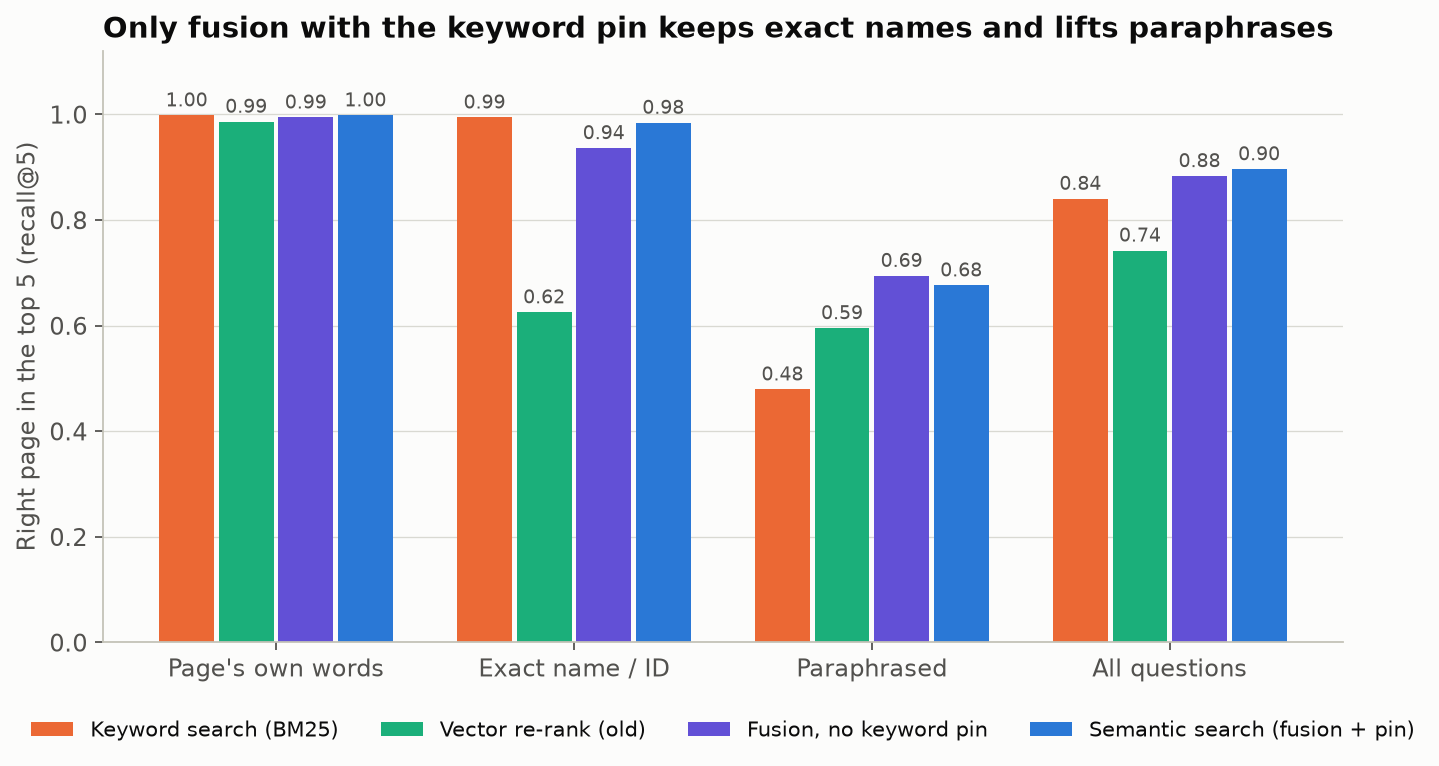
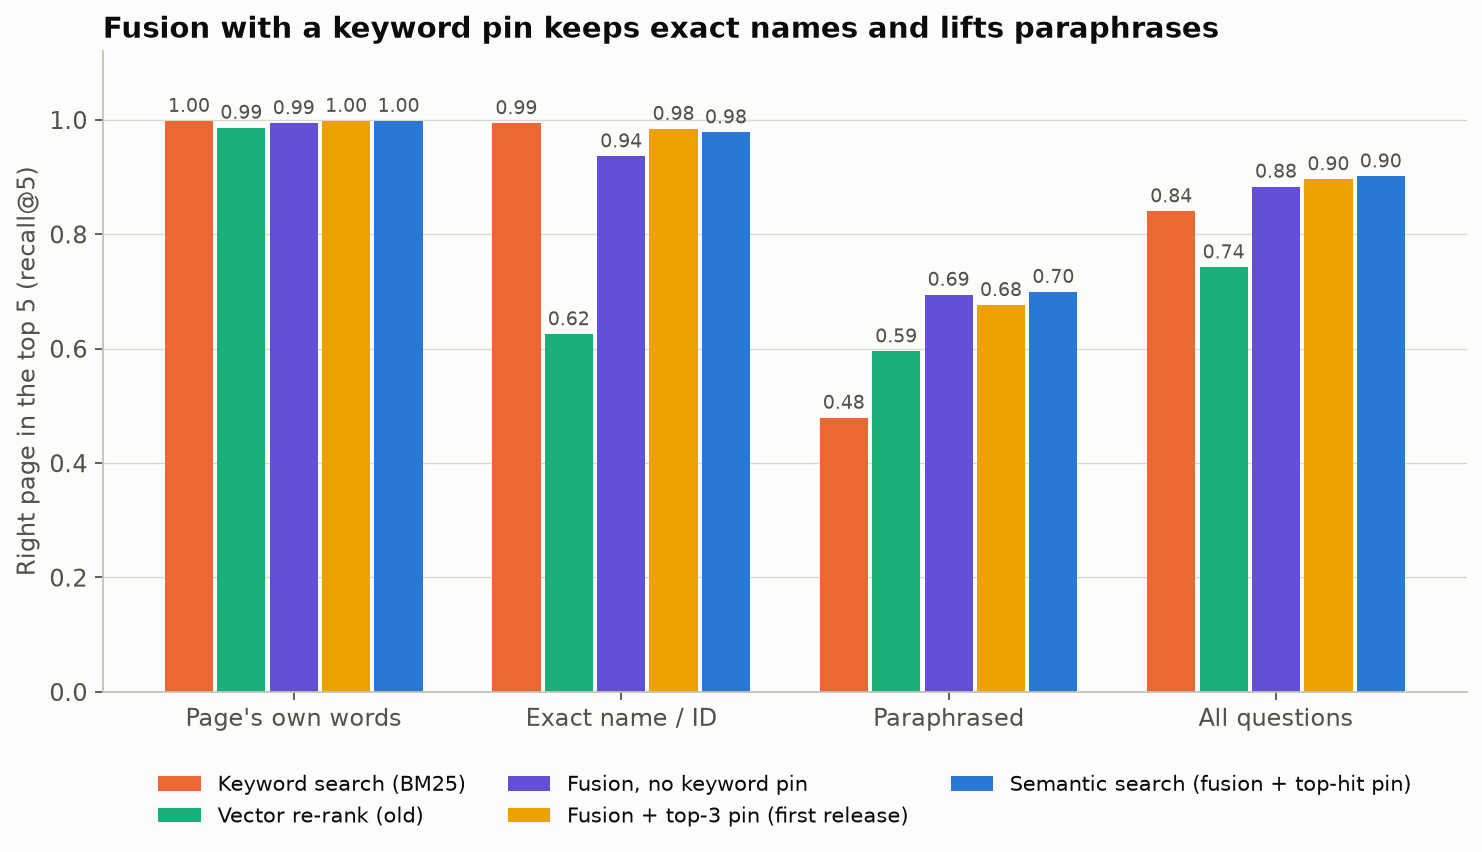
docs(benchmarks): results with only BM25's top hit pinned
Re-ran all five corpora (accuracy only; latency figures kept from the
previous baseline: the change only re-orders fused results, and this run
was measured with the machine under load). The design-choices chart shows
the first release's top-3 pin next to the shipped top-hit pin; README,
user guide, design doc and benchmark READMEs quote 70% for paraphrases.

diff --git a/benchmarks/retrieval/charts.py b/benchmarks/retrieval/charts.py
@@ -23,6 +23,7 @@ SEMANTIC = "#2a78d6"     # fusion + keyword pin: what ships
 KEYWORD = "#eb6834"      # BM25
 RERANK = "#1baf7a"       # the former vector = true (BM25 top 20 re-sorted)
 FUSION = "#6250d6"       # fusion without the keyword pin
+PIN3 = "#eda100"         # fusion + pin of BM25's top 3 (the first release)
 SURFACE, TEXT, TEXT_2, GRID = "#fcfcfb", "#0b0b0b", "#52514e", "#c3c2b7"
 
 # Measured while designing semantic search (benchmarks/retrieval/README.md,
@@ -31,7 +32,8 @@ DESIGN_SETUPS = [
     ("Keyword search (BM25)", KEYWORD, {"lexical": 0.998, "identifier": 0.994, "paraphrase": 0.479, "all": 0.840}),
     ("Vector re-rank (old)", RERANK, {"lexical": 0.986, "identifier": 0.625, "paraphrase": 0.595, "all": 0.742}),
     ("Fusion, no keyword pin", FUSION, {"lexical": 0.994, "identifier": 0.936, "paraphrase": 0.694, "all": 0.883}),
-    ("Semantic search (fusion + pin)", SEMANTIC, {"lexical": 0.998, "identifier": 0.984, "paraphrase": 0.676, "all": 0.896}),
+    ("Fusion + top-3 pin (first release)", PIN3, {"lexical": 0.998, "identifier": 0.984, "paraphrase": 0.676, "all": 0.896}),
+    ("Semantic search (fusion + top-hit pin)", SEMANTIC, {"lexical": 0.998, "identifier": 0.978, "paraphrase": 0.699, "all": 0.901}),
 ]
 # P95 before the query embedding overlapped BM25 (the previous committed baseline).
 LATENCY_BEFORE = {"200": 65.9, "500": 63.9, "1000": 70.1, "1985": 165.7}
@@ -85,12 +87,12 @@ def chart_design(out_dir: Path) -> Path:
     plt = _plt()
     types = ["lexical", "identifier", "paraphrase", "all"]
     labels = ["Page's own words", "Exact name / ID", "Paraphrased", "All questions"]
-    fig, ax = plt.subplots(figsize=(10, 4.8))
+    fig, ax = plt.subplots(figsize=(11, 5.2))
     _grouped_bars(ax, labels, [(n, c, [v[t] for t in types]) for n, c, v in DESIGN_SETUPS], "{:.2f}")
     ax.set_ylim(0, 1.12)
     ax.set_ylabel("Right page in the top 5 (recall@5)")
-    ax.set_title("Only fusion with the keyword pin keeps exact names and lifts paraphrases",)
-    ax.legend(loc="upper center", bbox_to_anchor=(0.5, -0.1), ncol=4, fontsize=9.5)
+    ax.set_title("Fusion with a keyword pin keeps exact names and lifts paraphrases")
+    ax.legend(loc="upper center", bbox_to_anchor=(0.5, -0.1), ncol=3, fontsize=9.5)
     return _save(fig, "design-choices.png", out_dir)
 
 

diff --git a/docs/design.md b/docs/design.md
@@ -383,13 +383,13 @@ model hurt, which the CJK handling below removes); see
 1. BM25 takes its top `vector_top_candidates` pages (default 20).
 2. The query is embedded and compared with every page embedding in memory; the top `vector_top_candidates` pages by similarity are taken, over the same scope (routing scope, query lifecycle states).
 3. The two rankings are merged with **reciprocal rank fusion** — each page scores `1 / (60 + rank)` in each list it appears in — so a page either method finds can surface, and a page high in both wins.
-4. **Keyword pin:** when BM25's best score is at least 1.05× its second, BM25's top 3 stay on top. A dominant keyword match is almost always an exact name or term, and re-ordering it by meaning would lose it.
+4. **Keyword pin:** when BM25's best score is at least 1.05× its second, BM25's top hit stays on top. A dominant keyword match is almost always an exact name or term, and re-ordering it by meaning would lose it. Only the top hit is pinned: at 1.05× the pin fires on 53% of paraphrased questions, and BM25's second and third results were the labelled page for at most 6% of the questions it fired on. Pinning the top 3 (the first release) cost paraphrase recall@5 (0.699 → 0.676) for 3 of 499 exact-name lookups, and was no better on any held-out corpus.
 
 Each `SearchResult` keeps `score` as the BM25 score (0 for a page only the embedding search found), so the knowledge-gap signals and the routing-scope fallback keep their BM25 meaning; `rank_score` is the fused ordering key and `similarity` the embedding similarity. Callers merge sub-question searches with `merge_results()`, which orders by `rank_score`. Ingest's page matching stays on BM25.
 
 **Sync:** embeddings live in `embeddings.db` (`page_embeddings` table: one vector per page plus a hash of the text it was embedded from) and in memory as one matrix. A background sync embeds new and changed pages and drops pages that left the query corpus: at server start, after every ingest, and on the next search after any page write (`invalidate_index()`). Until the first sync finishes, search is BM25 only — no downtime. A failed sync (e.g. the model cannot be downloaded) is logged and search stays on BM25.
 
-**Measured:** see [benchmarks/retrieval](../benchmarks/retrieval/README.md). On a 1,985-page Wikipedia-derived wiki, fusion with the keyword pin raises paraphrased-question recall@5 from 0.48 to 0.68 while exact-name and own-words questions stay within 1 point of BM25.
+**Measured:** see [benchmarks/retrieval](../benchmarks/retrieval/README.md). On a 1,985-page Wikipedia-derived wiki, fusion with the keyword pin raises paraphrased-question recall@5 from 0.48 to 0.70 and all questions from 0.84 to 0.90; own-words questions are unchanged and exact-name lookups are 1.6 points under BM25 (0.978 vs 0.994).
 
 **Performance notes:**
 

diff --git a/benchmarks/retrieval/README.md b/benchmarks/retrieval/README.md
@@ -69,10 +69,20 @@ Measured on the full 1,985-page corpus while designing semantic search
 | BM25 | 0.998 | 0.994 | 0.479 | 0.840 |
 | BM25 top 20 re-sorted by embedding similarity (the former `vector = true`) | 0.986 | 0.625 | 0.595 | 0.742 |
 | BM25 + embedding search, reciprocal rank fusion | 0.994 | 0.936 | 0.694 | 0.883 |
-| Fusion + keyword pin (BM25 top 3 kept when its best score ≥ 1.05× its second) | 0.998 | 0.984 | 0.676 | 0.896 |
-| Same, but one embedding per section instead of per page | 0.998 | 0.986 | 0.613 | 0.878 |
+| Fusion + keyword pin of BM25's top 3 when its best score ≥ 1.05× its second (first release) | 0.998 | 0.984 | 0.676 | 0.896 |
+| **Fusion + keyword pin of BM25's top hit only (shipped)** | 0.998 | 0.978 | **0.699** | **0.901** |
+| First release, but one embedding per section instead of per page | 0.998 | 0.986 | 0.613 | 0.878 |
 
 ![Recall@5 by question type for each setup](../../docs/png/benchmarks/design-choices.png)
+
+**Why only the top hit is pinned.** At 1.05× the pin fires on 96% of
+own-words, 98% of exact-name and 53% of paraphrased questions. When it fires,
+BM25's top result is the labelled page 99%, 94% and 45% of the time, but its
+second and third results are the labelled page for at most 6%. Pinning all
+three cost 10 paraphrased questions to save 3 exact-name ones, and on the
+held-out corpora (below) pinning only the top hit is at least as good on every
+measure. Pinning the top hit at 1.05× and the top three only at a larger
+margin (1.1×–3×) never beat it.
 
 Section embeddings rank better on their own (paraphrase recall@5 0.669 vs
 0.616 for the embedding search alone) but fuse worse, because they mostly
@@ -88,7 +98,7 @@ search latency.
 
 The gap between keyword and semantic search grows with the wiki: paraphrased
 questions found in the top 5 fall from 0.71 to 0.48 with BM25 between 200 and
-1,985 pages, and from 0.80 to 0.68 with semantic search.
+1,985 pages, and from 0.84 to 0.70 with semantic search.
 
 ![Paraphrased-question recall@5 by wiki size](../../docs/png/benchmarks/paraphrase-by-wiki-size.png)
 
@@ -100,9 +110,9 @@ NFCorpus, whose queries have ~38 relevant documents each):
 
 | Corpus | `bm25` nDCG@10 | `hybrid` nDCG@10 | `bm25` MRR@10 | `hybrid` MRR@10 |
 | --- | ---: | ---: | ---: | ---: |
-| hotpot | 0.755 | **0.808** | 0.848 | **0.880** |
-| scifact | 0.658 | **0.693** | 0.629 | **0.654** |
-| nfcorpus | 0.305 | **0.344** | 0.505 | **0.547** |
+| hotpot | 0.755 | **0.822** | 0.848 | **0.886** |
+| scifact | 0.658 | **0.697** | 0.629 | **0.659** |
+| nfcorpus | 0.305 | **0.346** | 0.505 | **0.554** |
 | duretrieval (Chinese) | 0.853 | 0.853 | 0.924 | 0.924 |
 
 ![nDCG@10 on every corpus](../../docs/png/benchmarks/independent-corpora.png)

diff --git a/README-pypi.md b/README-pypi.md
@@ -102,7 +102,7 @@ Synthadoc scales from a single researcher to a company-wide knowledge platform:
 | **Small team (3–20)**  | Centralized internal knowledge base for startups and departments that aggregates diverse individual data sources into a unified, high-integrity wiki. The system automatically resolves contradictions and scales autonomously, ensuring organizational intelligence grows in tandem with your team |
 | **Medium / enterprise** | Compliance-sensitive knowledge bases that must stay local; per-department wikis on separate ports; audit trail for every ingest and cost event; hook system for CI/CD integration; OpenTelemetry for ops dashboards                                                                                 |
 
-**Built for large wikis.** Measured on wikis of thousands of pages: keyword search finds the pages for an answer in about 20 ms at 2,000 pages; [semantic search](https://github.com/axoviq-ai/synthadoc/blob/main/docs/design.md#semantic-search), on by default for new wikis when installed, puts the right page in the top 5 for 68% of questions asked in your own words, up from 48%; and the [knowledge graph](https://github.com/axoviq-ai/synthadoc/blob/main/docs/user-quick-start-guide.md#large-wikis-cluster-overview) opens a 5,000-page wiki as a clickable overview of named topic clusters in about 6 seconds.
+**Built for large wikis.** Measured on wikis of thousands of pages: keyword search finds the pages for an answer in about 20 ms at 2,000 pages; [semantic search](https://github.com/axoviq-ai/synthadoc/blob/main/docs/design.md#semantic-search), on by default for new wikis when installed, puts the right page in the top 5 for 70% of questions asked in your own words, up from 48%; and the [knowledge graph](https://github.com/axoviq-ai/synthadoc/blob/main/docs/user-quick-start-guide.md#large-wikis-cluster-overview) opens a 5,000-page wiki as a clickable overview of named topic clusters in about 6 seconds.
 
 ![Knowledge graph of a 5,000-page wiki: one bubble per topic cluster, named after its main pages, with a clickable list of clusters below](https://raw.githubusercontent.com/axoviq-ai/synthadoc/main/docs/png/synthadoc-graph-cluster-overview.png)
 *The web UI's Graph tab on a 5,000-page test wiki: 100,801 links summarised as 24 named clusters. Click a cluster to see its pages. [How it works](https://github.com/axoviq-ai/synthadoc/blob/main/docs/user-quick-start-guide.md#large-wikis-cluster-overview)*

diff --git a/README.md b/README.md
@@ -113,7 +113,7 @@ Synthadoc scales from a single researcher to a company-wide knowledge platform:
 | **Small team (3–20)**  | Centralized internal knowledge base for startups and departments that aggregates diverse individual data sources into a unified, high-integrity wiki. The system automatically resolves contradictions and scales autonomously, ensuring organizational intelligence grows in tandem with your team |
 | **Medium / enterprise** | Compliance-sensitive knowledge bases that must stay local; per-department wikis on separate ports; audit trail for every ingest and cost event; hook system for CI/CD integration; OpenTelemetry for ops dashboards                                                                                 |
 
-**Built for large wikis.** Measured on wikis of thousands of pages: keyword search finds the pages for an answer in about 20 ms at 2,000 pages; [semantic search](docs/design.md#semantic-search), on by default for new wikis when installed, puts the right page in the top 5 for 68% of questions asked in your own words, up from 48%; and the [knowledge graph](docs/user-quick-start-guide.md#large-wikis-cluster-overview) opens a 5,000-page wiki as a clickable overview of named topic clusters in about 6 seconds.
+**Built for large wikis.** Measured on wikis of thousands of pages: keyword search finds the pages for an answer in about 20 ms at 2,000 pages; [semantic search](docs/design.md#semantic-search), on by default for new wikis when installed, puts the right page in the top 5 for 70% of questions asked in your own words, up from 48%; and the [knowledge graph](docs/user-quick-start-guide.md#large-wikis-cluster-overview) opens a 5,000-page wiki as a clickable overview of named topic clusters in about 6 seconds.
 
 ![Knowledge graph of a 5,000-page wiki: one bubble per topic cluster, named after its main pages, with a clickable list of clusters below](docs/png/synthadoc-graph-cluster-overview.png)
 *The web UI's Graph tab on a 5,000-page test wiki: 100,801 links summarised as 24 named clusters. Click a cluster to see its pages. [How it works](docs/user-quick-start-guide.md#large-wikis-cluster-overview)*

diff --git a/benchmarks/README.md b/benchmarks/README.md
@@ -16,7 +16,7 @@ python -m benchmarks.retrieval fetch                         # once, ~30 min: do
 python -m benchmarks.retrieval evaluate --configs bm25,hybrid
 ```
 
-Headline result on 1,985 pages: semantic search raises paraphrased questions found in the top 5 from 48% to 68%, with exact-name lookups at 98% (keyword search: 99%). Checked on corpora it was not tuned on: better on two English sets with human-written queries (SciFact, NFCorpus), and unchanged on Chinese, which is left to keyword search. These results are why new wikis are created with `vector = "auto"`. Committed results: [`retrieval/data/baseline.json`](retrieval/data/baseline.json). This benchmark decides changes to search and to the semantic-search default.
+Headline result on 1,985 pages: semantic search raises paraphrased questions found in the top 5 from 48% to 70%, with exact-name lookups at 98% (keyword search: 99%). Checked on corpora it was not tuned on: better on two English sets with human-written queries (SciFact, NFCorpus), and unchanged on Chinese, which is left to keyword search. These results are why new wikis are created with `vector = "auto"`. Committed results: [`retrieval/data/baseline.json`](retrieval/data/baseline.json). This benchmark decides changes to search and to the semantic-search default.
 
 ## Search latency with and without routing
 

diff --git a/docs/user-quick-start-guide.md b/docs/user-quick-start-guide.md
@@ -4881,12 +4881,12 @@ Turn it on when your wiki has a few hundred pages or more, and people ask questi
 
 | Question type | Keyword search | With semantic search |
 | --- | ---: | ---: |
-| Paraphrased ("the first electronic machine built to compute artillery tables") | 48% | **68%** |
+| Paraphrased ("the first electronic machine built to compute artillery tables") | 48% | **70%** |
 | Uses the page's own words | 100% | 100% |
 | Exact name, acronym or number ("Moore School 1946") | 99% | 98% |
 | **All questions** | 84% | **90%** |
 
-*How often the right page is among the top 5 handed to the LLM.* The gain grows with the size of the wiki: on a 200-page wiki, paraphrased questions improve by 9 points; at 2,000 pages, by 20. On a small wiki such as the demo, keyword search usually finds the right pages already.
+*How often the right page is among the top 5 handed to the LLM.* The gain grows with the size of the wiki: on a 200-page wiki, paraphrased questions improve by 13 points; at 2,000 pages, by 22. On a small wiki such as the demo, keyword search usually finds the right pages already.
 
 When keyword search has one clear winner (typically an exact name or term), that page stays on top, so precise lookups keep working as before.
 
